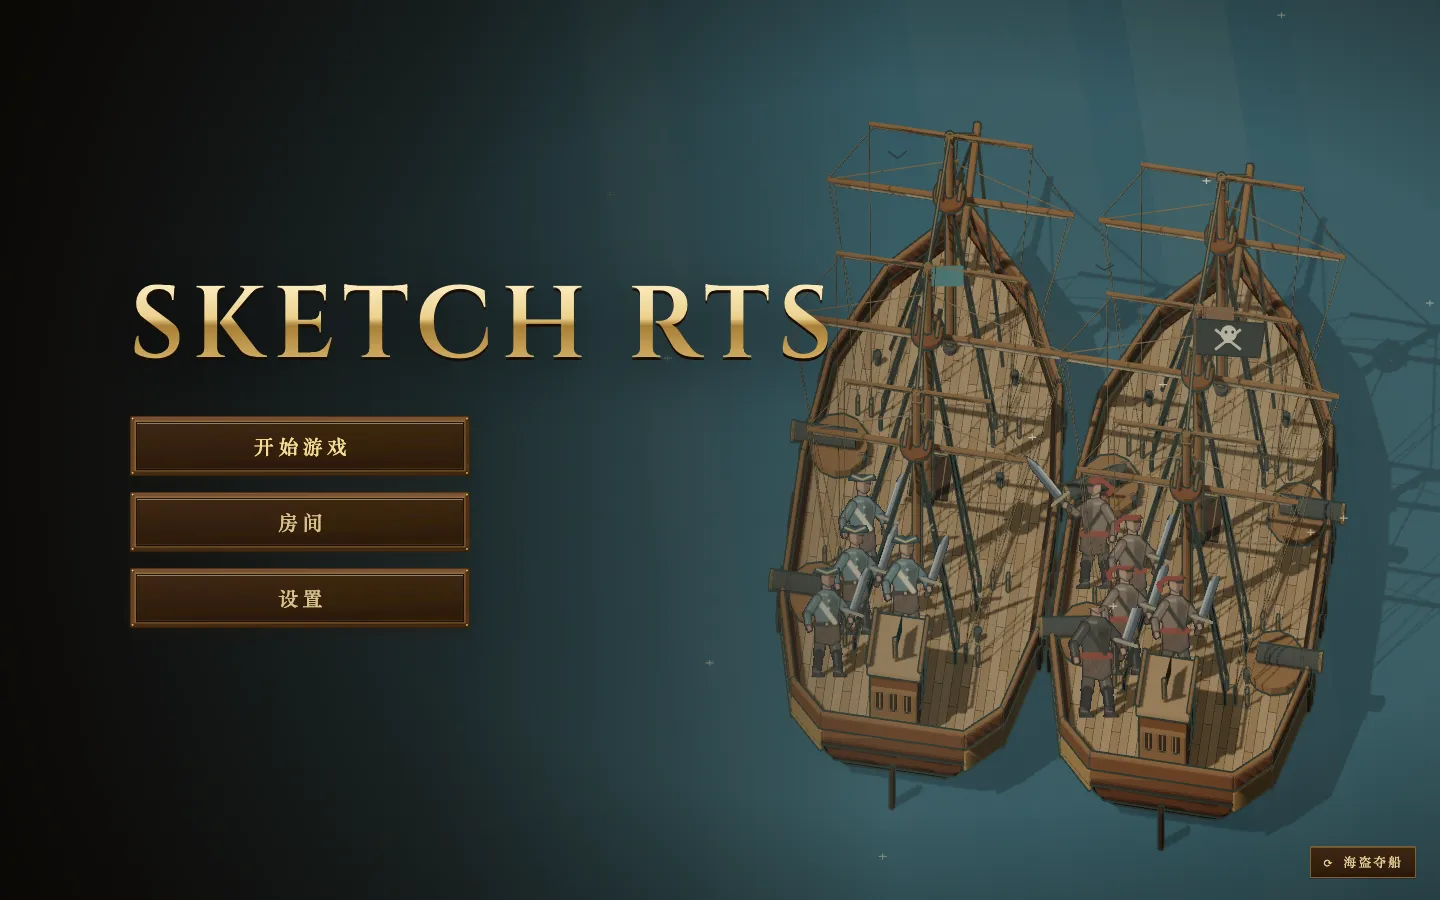
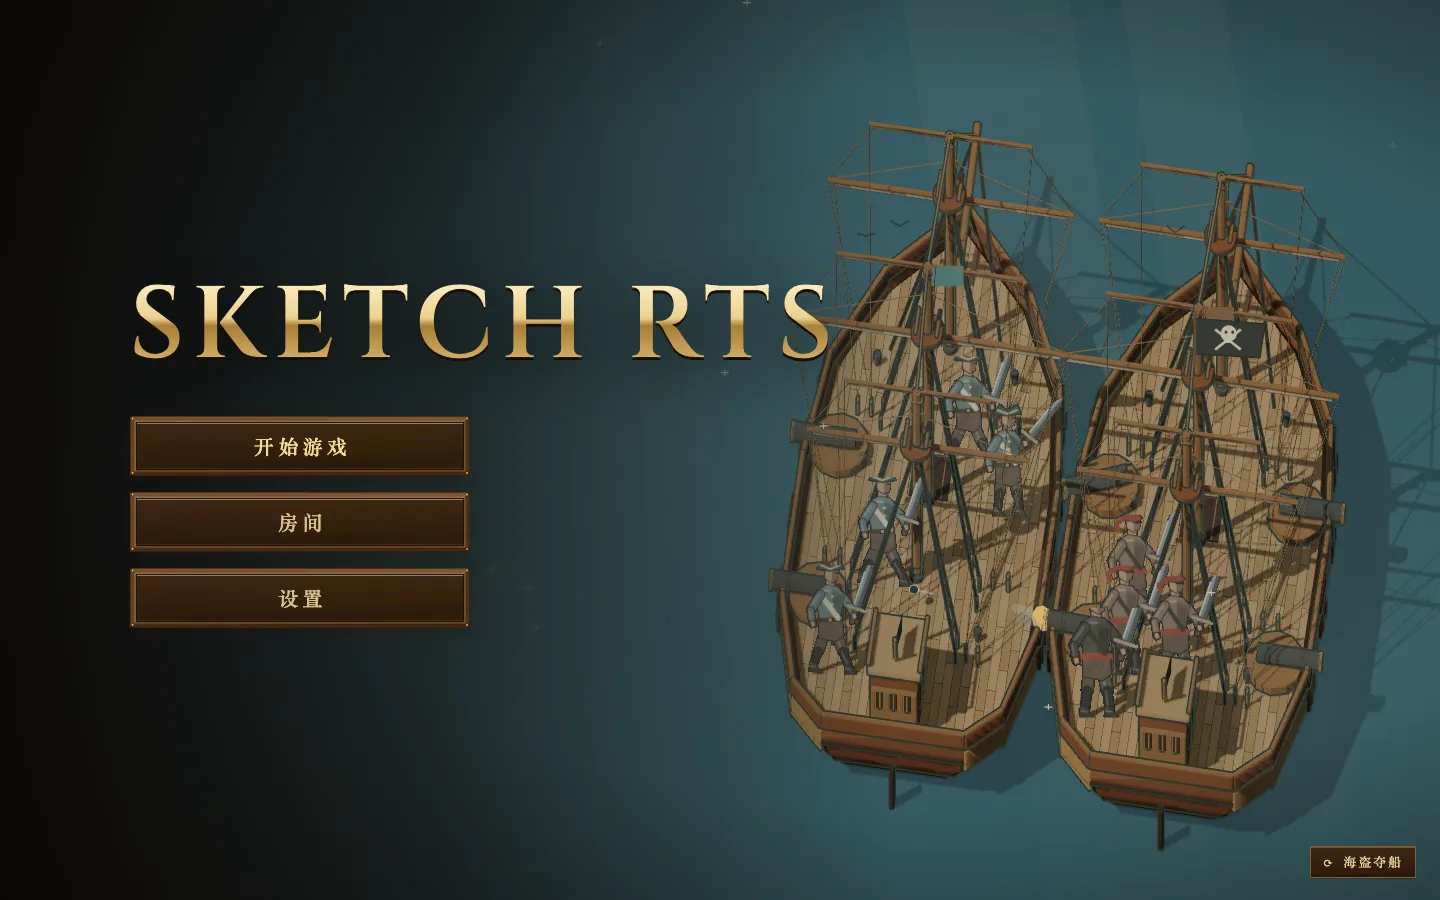
docs(menu): the marines' opening, the known deck cost, and the scene worker's lifetime

Changed region(s): [[0.5625, 0.3733, 0.8125, 0.7778]]

diff --git a/docs/validation/homepage-scenes/pirate-battle/README.zh.md b/docs/validation/homepage-scenes/pirate-battle/README.zh.md
@@ -6,13 +6,16 @@
 
 - 两艘战列舰并排靠着，海盗船已经停在模拟自己会选的接舷位置上。
 - 每艘船上各站着一队水手。海盗 4 人，有些场次 5 人；水兵 4 人。
-- 海盗船的舵手接到一条“接舷登船”命令。
+- 海盗船的舵手接到一条“接舷登船”命令；水兵接到一条冲向跳板落点（自己船上靠海盗一侧的船舷）的 attackMove。
 
-跳板放下、海盗过船、甲板上的厮杀、伤亡、夺船和换旗，都是模拟真实算出来的。一方打光后，过 4 秒淡出，再用新的随机种子开下一场。
+跳板放下、两队在跳板口交手、伤亡、夺船和换旗，都是模拟真实算出来的。一方打光后，过 4 秒淡出，再用新的随机种子开下一场。
 
 ## 这一幕摆出来的开局（场景设定，不是改游戏规则）
 
-水兵船靠海盗一侧的两门舷炮（starboard0 / starboard2）在开局时没有架出来，船上只剩背向海盗的两门。这一幕讲的是“水兵船被海盗贴上来时，那一侧的炮还没来得及架出”。游戏规则一个字没改：舷炮、跳板、登船的结算和正式对局完全一样。之所以这样摆，是因为两侧火炮都在的话，水兵船的舷炮会把跳板和刚上跳板的人一起扫掉，首页这一幕就成了“海盗冲不上去”。
+下面两条只决定这一幕从什么局面开始。游戏规则一个字没改：舷炮、跳板、登船、移动和战斗的结算，和正式对局完全一样。
+
+- **水兵船靠海盗一侧的两门舷炮（starboard0 / starboard2）没有架出来**，船上只剩背向海盗的两门。这一幕讲的是“水兵船被海盗贴上来时，那一侧的炮还没来得及架出”。两侧火炮都在的话，水兵船的舷炮会把跳板和刚上跳板的人一起扫掉，海盗根本冲不上去。
+- **水兵开局冲向跳板落点**。不给这条命令，水兵会守在各自原位，被海盗逐个对上：种子 1–20 全是海盗无人阵亡就夺了船。给了以后，四个水兵一起在跳板口迎上去，海盗每场倒下一人，仍然夺船。胜负没变，过程有了起伏。
 
 ## 改动前（脚本）
 
@@ -30,7 +33,7 @@
 
 ![](after-phone-10s.webp)
 
-截图环境：mac1 无头 Chromium，1440×900，生产构建（`vite build` 后以 `NODE_ENV=production` 起服务）。改动前基于 `main@06c0d9e6`。截图时 mac1 负载在 84–106 之间，页面主线程大部分时间拿不到 CPU。每次推进最多补 4 个 tick，超出的时间直接丢掉，所以浏览器里这一场是慢放的：模拟里 3.6 秒过船，截图里 16–24 秒才打到对面甲板上。负载正常时不会这样。
+截图环境：mac1 无头 Chromium，1440×900，生产构建（`vite build` 后以 `NODE_ENV=production` 起服务）。改动前基于 `main@06c0d9e6`。截图时 mac1 负载很高，页面主线程大部分时间拿不到 CPU。每次推进最多补 4 个 tick，超出的时间直接丢掉，所以浏览器里这一场比模拟时间慢。负载正常时不会这样。
 
 镜头按两艘船的真实尺寸取景：宽度取两船的横向跨度，高度取一个船身长。原来脚本里的船比真实战列舰大，沿用旧的取景系数会把船缩成右下角的一小团。
 
@@ -39,21 +42,29 @@
 | | 海盗 5 人（12 场） | 海盗 4 人（8 场） |
 |---|---|---|
 | 跳板放好 | 3.0 秒 | 3.0 秒 |
-| 第一个海盗踏上对面甲板 | 3.6 秒 | 4.3 秒 |
-| 分出胜负 | 13.8 秒 | 14.2 秒 |
-| 结局 | 夺船，海盗无人阵亡 | 夺船，海盗无人阵亡 |
+| 水兵全部阵亡（分出胜负） | 13.1 秒 | 14.3 秒 |
+| 海盗登上对面甲板、夺船 | 15.8 秒 | 16.4 秒 |
+| 海盗阵亡 | 1 人 | 1 人 |
 
-每一场都是海盗赢，每场的过程也几乎一样。种子只决定海盗是 4 人还是 5 人，别的都不变。
-
-水兵守在原位（`hold`），海盗从跳板上来后逐个对上，所以水兵每次只有一个人在打。我试过开局给水兵一条冲向跳板落点的 attackMove：海盗会死 1–2 个，但结局还是夺船。这条命令没有加进来；加不加由审阅的人决定。
+夺船发生在分出胜负后 2.1–2.7 秒，落在 4 秒的收尾时间里，淡出前能看到换旗。种子只决定海盗是 4 人还是 5 人，同样人数的场次过程相同。
 
 ## 模拟开销（A100 单核，用 `process.cpuUsage` 量 `stepGame` 本身）
 
 | 场景 | 每 tick 均值 | p95 | 最坏一个 tick | 每秒 CPU（20 tick/秒） |
 |---|---|---|---|---|
-| 林间血战，种子 1 / 2 / 7 | 0.65 / 0.29 / 0.13 ms | 3.5 / 0.4 / 0.2 ms | 49 / 15 / 13 ms | 13 / 6 / 3 ms |
-| 海盗夺船，种子 1 / 2 / 7 | 11.1 / 8.6 / 5.7 ms | 30 / 19 / 14 ms | 148 / 39 / 21 ms | 223 / 171 / 115 ms |
+| 林间血战，种子 1 / 2 / 7 | 0.65 / 0.30 / 0.13 ms | 3.2 / 0.4 / 0.2 ms | 49 / 16 / 13 ms | 13 / 6 / 3 ms |
+| 海盗夺船，种子 1 / 2 / 7 | 15.9 / 12.8 / 11.1 ms | 32 / 25 / 22 ms | 272 / 63 / 50 ms | 318 / 255 / 221 ms |
 
-这一幕的模拟比林间血战贵一到两个数量级，主要花在甲板上的走位上。它跑在 worker 里，不占页面主线程，但只要首页开着就一直在耗 CPU。
+**已知问题：这一幕首页常驻的模拟开销偏高**，每秒 221–318 ms CPU，比林间血战高一到两个数量级，几乎全花在甲板走位上。真正的修法是 #421 那条甲板寻路，不是在这一幕里减人、减炮打折扣。
+
+开销只在首页显示这一幕时才有：
+
+- 模拟跑在 worker 里，不占页面主线程。
+- worker 只按页面每一帧发来的推进请求走到当时的时钟，不会自己往前跑。标签页隐藏时页面不画帧，模拟也就停了。
+- 首页换到别的场景时，这一场的 worker 被关掉（`terminate`）。
+- 比赛开始时，`MenuBackdrop.stop()` 结束这一场并关掉 worker。回到首页或结果页时，这一幕从开局重新淡入。
+- 房间设置页仍然显示首页场景作为背景，这时它照常在跑。
+
+浏览器实测（mac1，生产构建）：在首页停 8 秒，进单人房间设置页，再开局并在对局里停 10 秒。这一场的 worker 在首页和设置页期间收到推进请求。开局时收到 `close` 并被 `terminate`，之后对局里的 10 秒没有再收到任何消息。
 
 mac1 上的 Chrome trace 这次不能作数。负载在 84–106 之间时，渲染主线程每秒 650–920 ms 的墙钟时间里只拿到 10–20 ms CPU，worker 大部分时间在等页面发推进请求，测出来的是机器有多饿，不是场景有多贵。
